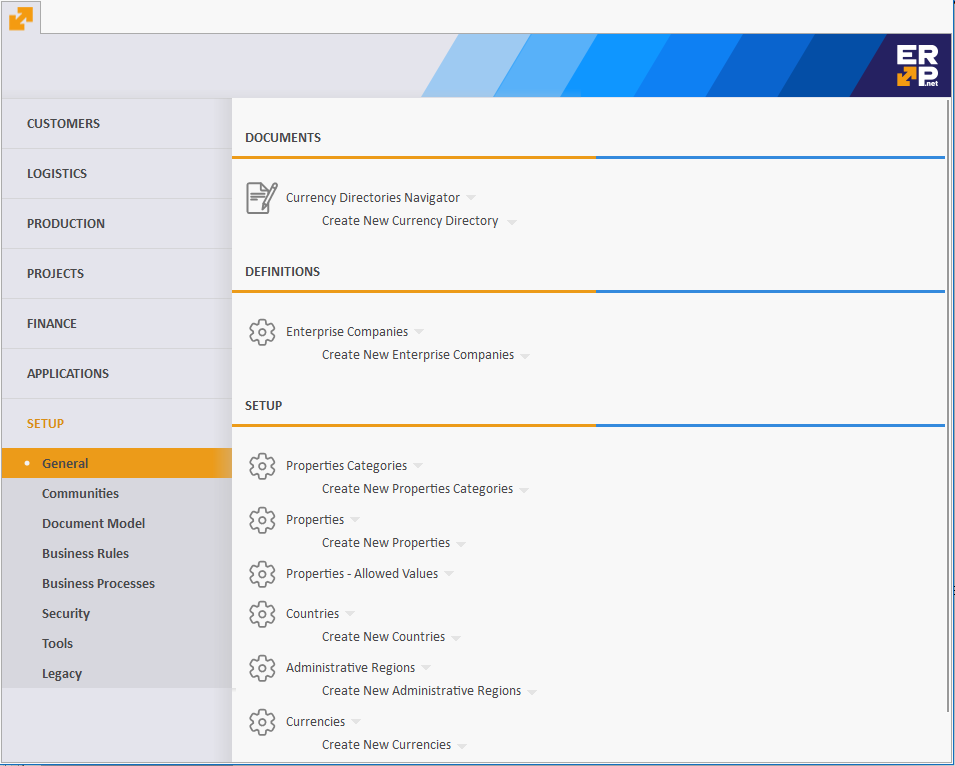
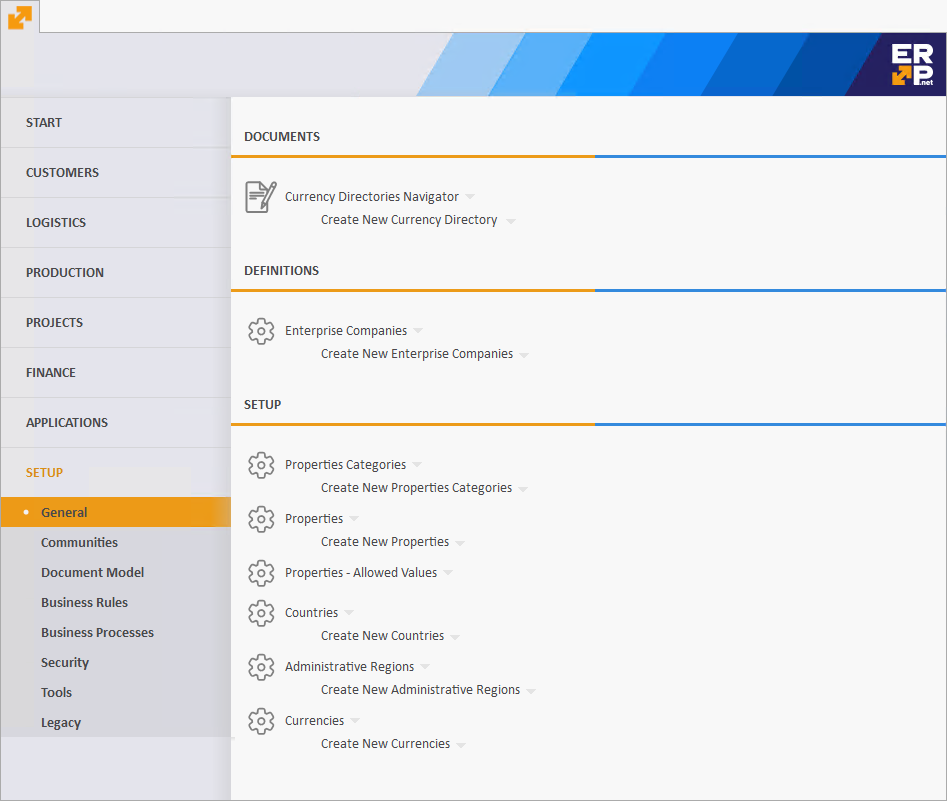
Latest changes from buid bot: 5:35 PM

diff --git a/docs/introduction/workspace/main-menu.html b/docs/introduction/workspace/main-menu.html
@@ -79,16 +79,71 @@
             <article class="content wrap" id="_content" data-uid="">
 <h1 id="main-menu">Main Menu</h1>
 
-<p>Using the <b>Main Menu</b>, you can easily navigate the different modules and open navigators or documents. You have access to it at any time through the ERP.net Windows Desktop Client icon <img src="pictures/logo.png" alt="Logo">. You will only see the Forms that you have access to.</p>
+<p>The <strong>Main Menu</strong> is the default page that will open after starting the ERP.net Windows Desktop Client. Using it, you can easily
+navigate between the different modules or to open navigators and documents. You have access to it at any time through
+the ERP.net Windows Desktop Client icon <img src="pictures/logo.png" alt="Logo">.</p>
 <p><img src="pictures/main-menu.png" alt="Main Menu"></p>
-<p>On the left, you will see the 6 main sections, together with the Setup and the program modules,  spread across the sections. <br>
-When you  enter the program for the first time, you will see the first module open by default. <br>
-Each following time you will see the last used module open.</p>
-<p><img src="pictures/main-sections.png" alt="Main Sections"></p>
-<p>On the right side, you will usually see three subsections: Documents, Reports, and Definitions.<br>
-You can create and use them from within the respective module. <br>
-Enther a Navigator or a Definition by clicking on its name or the icon in front of it.</p>
+<div class="NOTE">
+<h5>Note</h5>
+<p>According to your security access level and settings you will only see the sections you have access to.</p>
+</div>
+<h2 id="menu-navigation">Menu navigation</h2>
+<p>On the left you will see the menu navigation, containing the different application sections. For convenience,
+they are grouped into several top-level groups (also called <em>tabs</em>):</p>
+<ul>
+<li><code>START</code> - provides fast access for commonly used pages which summarize data.</li>
+<li>Main program modules. Each one in a separate group.</li>
+<li><code>SETUP</code> - workflow, system and application specific tuning.</li>
+</ul>
+<p><img src="pictures/main-menu-groups.png" alt="Main Menu Groups"></p>
+<p>Each group contains the actual application sections. When you click on a group, it will expand and its available
+sections (i.e. modules) will appear. You can see in the picture below- the <code>CUSTOMERS</code> group is selected and its related
+modules are shown beneath.</p>
+<p><img src="pictures/main-menu-customers-sections.png" alt="CUSTOMERS Sections"></p>
+<div class="NOTE">
+<h5>Note</h5>
+<p>When you start ERP.net Windows Desktop Client for the first time, you will see the first module opened by default
+(<code>CUSTOMERS-&gt;SALES</code>, according to the picture above). Each following time the application will
+remember the last used module and will select it automatically after start.</p>
+</div>
+<h2 id="menu-page">Menu page</h2>
+<p>On the right you can see the rest of the page- the contents of the selected module from the navigation. The content is
+usually divided into three subsections:</p>
+<ul>
+<li>Documents</li>
+<li>Reports</li>
+<li>Definitions</li>
+</ul>
+<p>Below each subsection there is list of links, which represent specific actions in the context of the selected module.
+E.g. you can open a <code>Navigator</code>, create a new document or open a specific report.</p>
 <p><img src="pictures/main-subsections.png" alt="Main Subsections"></p>
+<h2 id="start">START</h2>
+<p><code>START</code> is the first available group in the menu navigation. It differs from the other groups in the following aspects:</p>
+<ul>
+<li>It doesn't contain application modules, but direct links to the most commonly used summarization panels.</li>
+<li>It is fully customizable! You have a set of possible panel types and you can choose which ones will be included.</li>
+<li>Each panel opens in the same page. You don't need to switch between different tabs.</li>
+</ul>
+<p><img src="pictures/main-menu-start.png" alt="Main Menu Start Section"></p>
+<p>Due to the fact that the <strong>Main Menu</strong> supports <code>Views</code>, you can customize the contents of the <code>START</code> group.
+From the list with available panels you can select the ones you wish to be part of the <code>START</code>.</p>
+<div class="NOTE">
+<h5>Note</h5>
+<p>If there are no visible panels, the <code>START</code> group will be empty and therefore will not be displayed.</p>
+</div>
+<p>For more information how to customize a <code>View</code>, please check out our separate docs topic:
+<a href="../workspace-customization/working-with-views.html">Customize the workspace / Working with views</a>.</p>
+<p>In addition to the customization, some panels content depends on the <code>View</code>, of which is part of. An example for this
+is the <code>Dashboard</code> panel. You can create multiple views with totally different set of tiles for each <code>Dashboard</code>. It
+will be restored the way you configured it each time you change the current <code>View</code>.</p>
+<p>In contrast, some other panels don't work this way. E.g. the <code>Timeline</code>- will show its content, regardless of the current <code>View</code> and
+any other customizations.</p>
+<p><img src="pictures/main-menu-start-panels.png" alt="Main Menu Start Section"></p>
+<div class="NOTE">
+<h5>Note</h5>
+<p>When ERP.net Windows Desktop Client starts for the first time, the <code>START</code> group will not show. This is because
+by default there are no visible panels. They need to be configured initially in the way you want.</p>
+</div>
 </article>
           </div>
           
